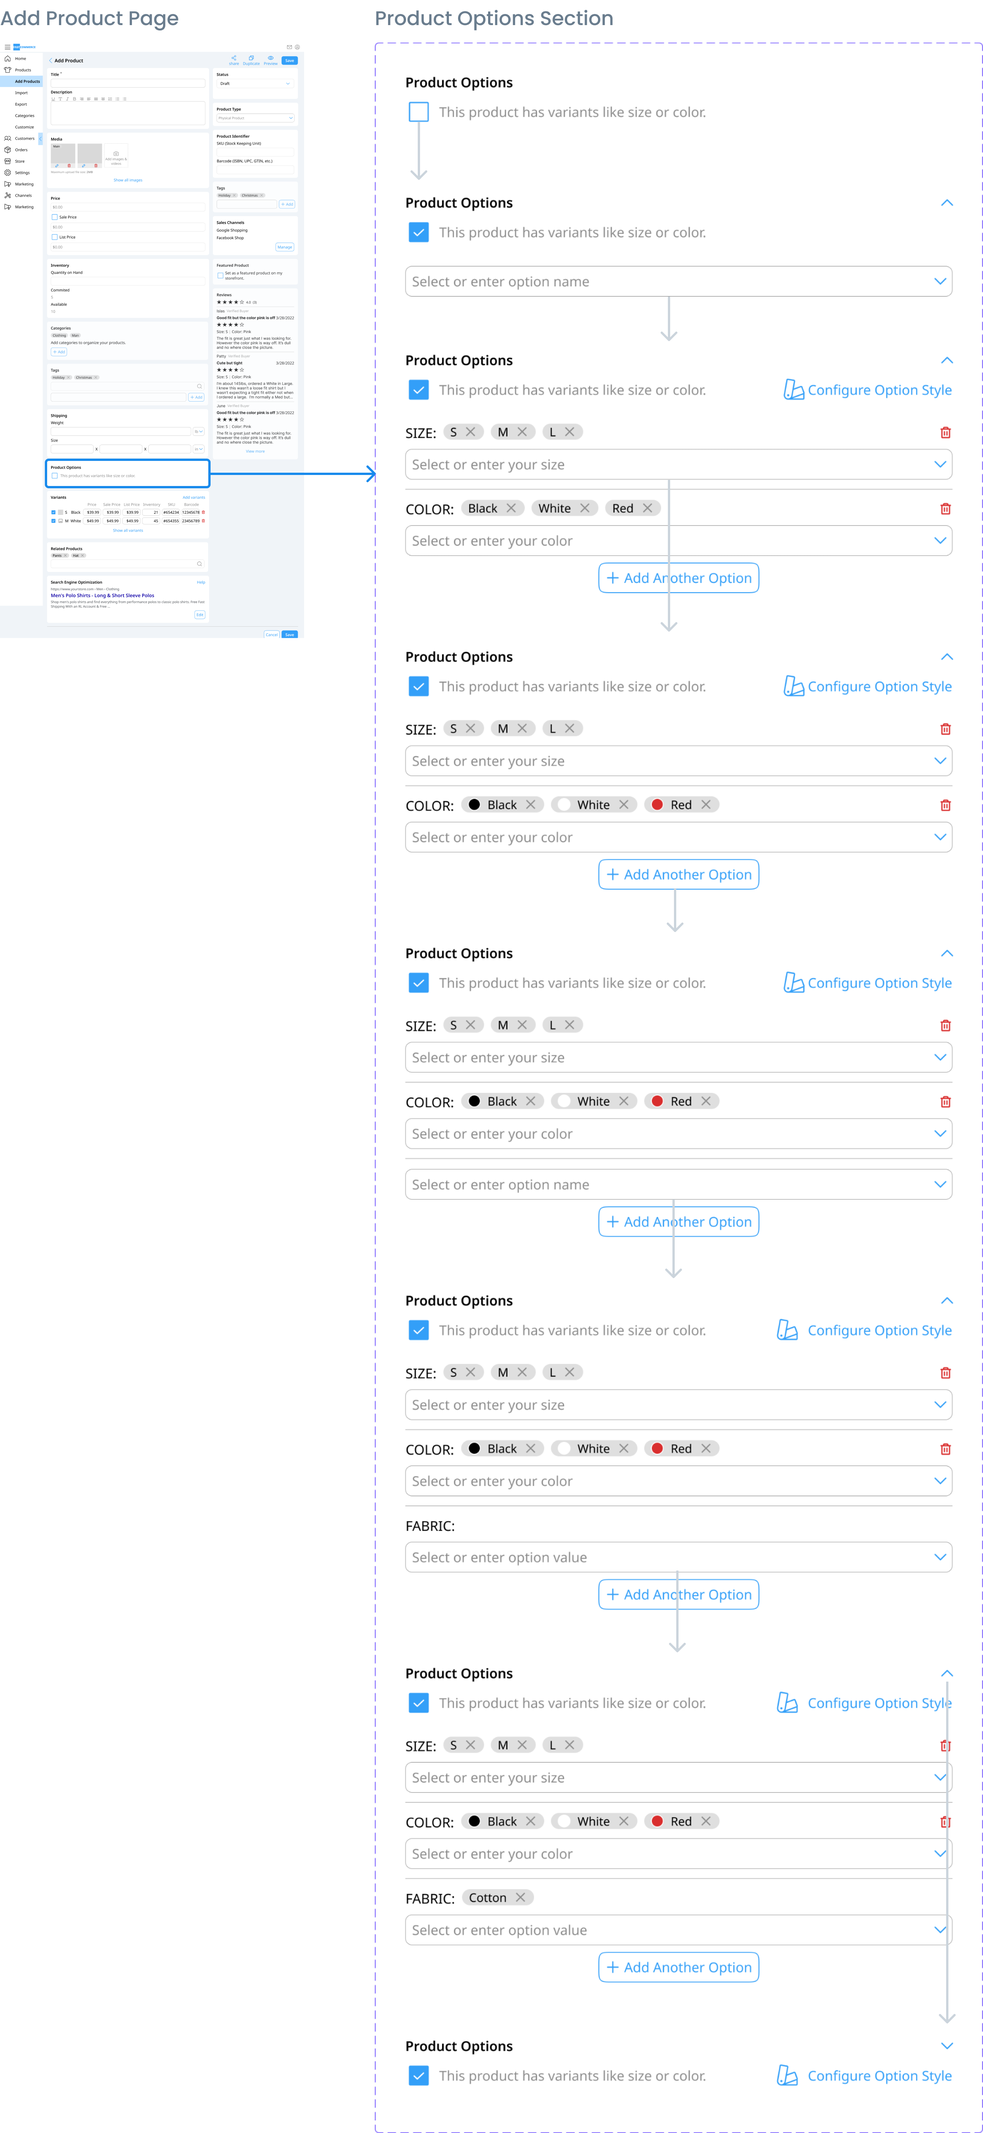
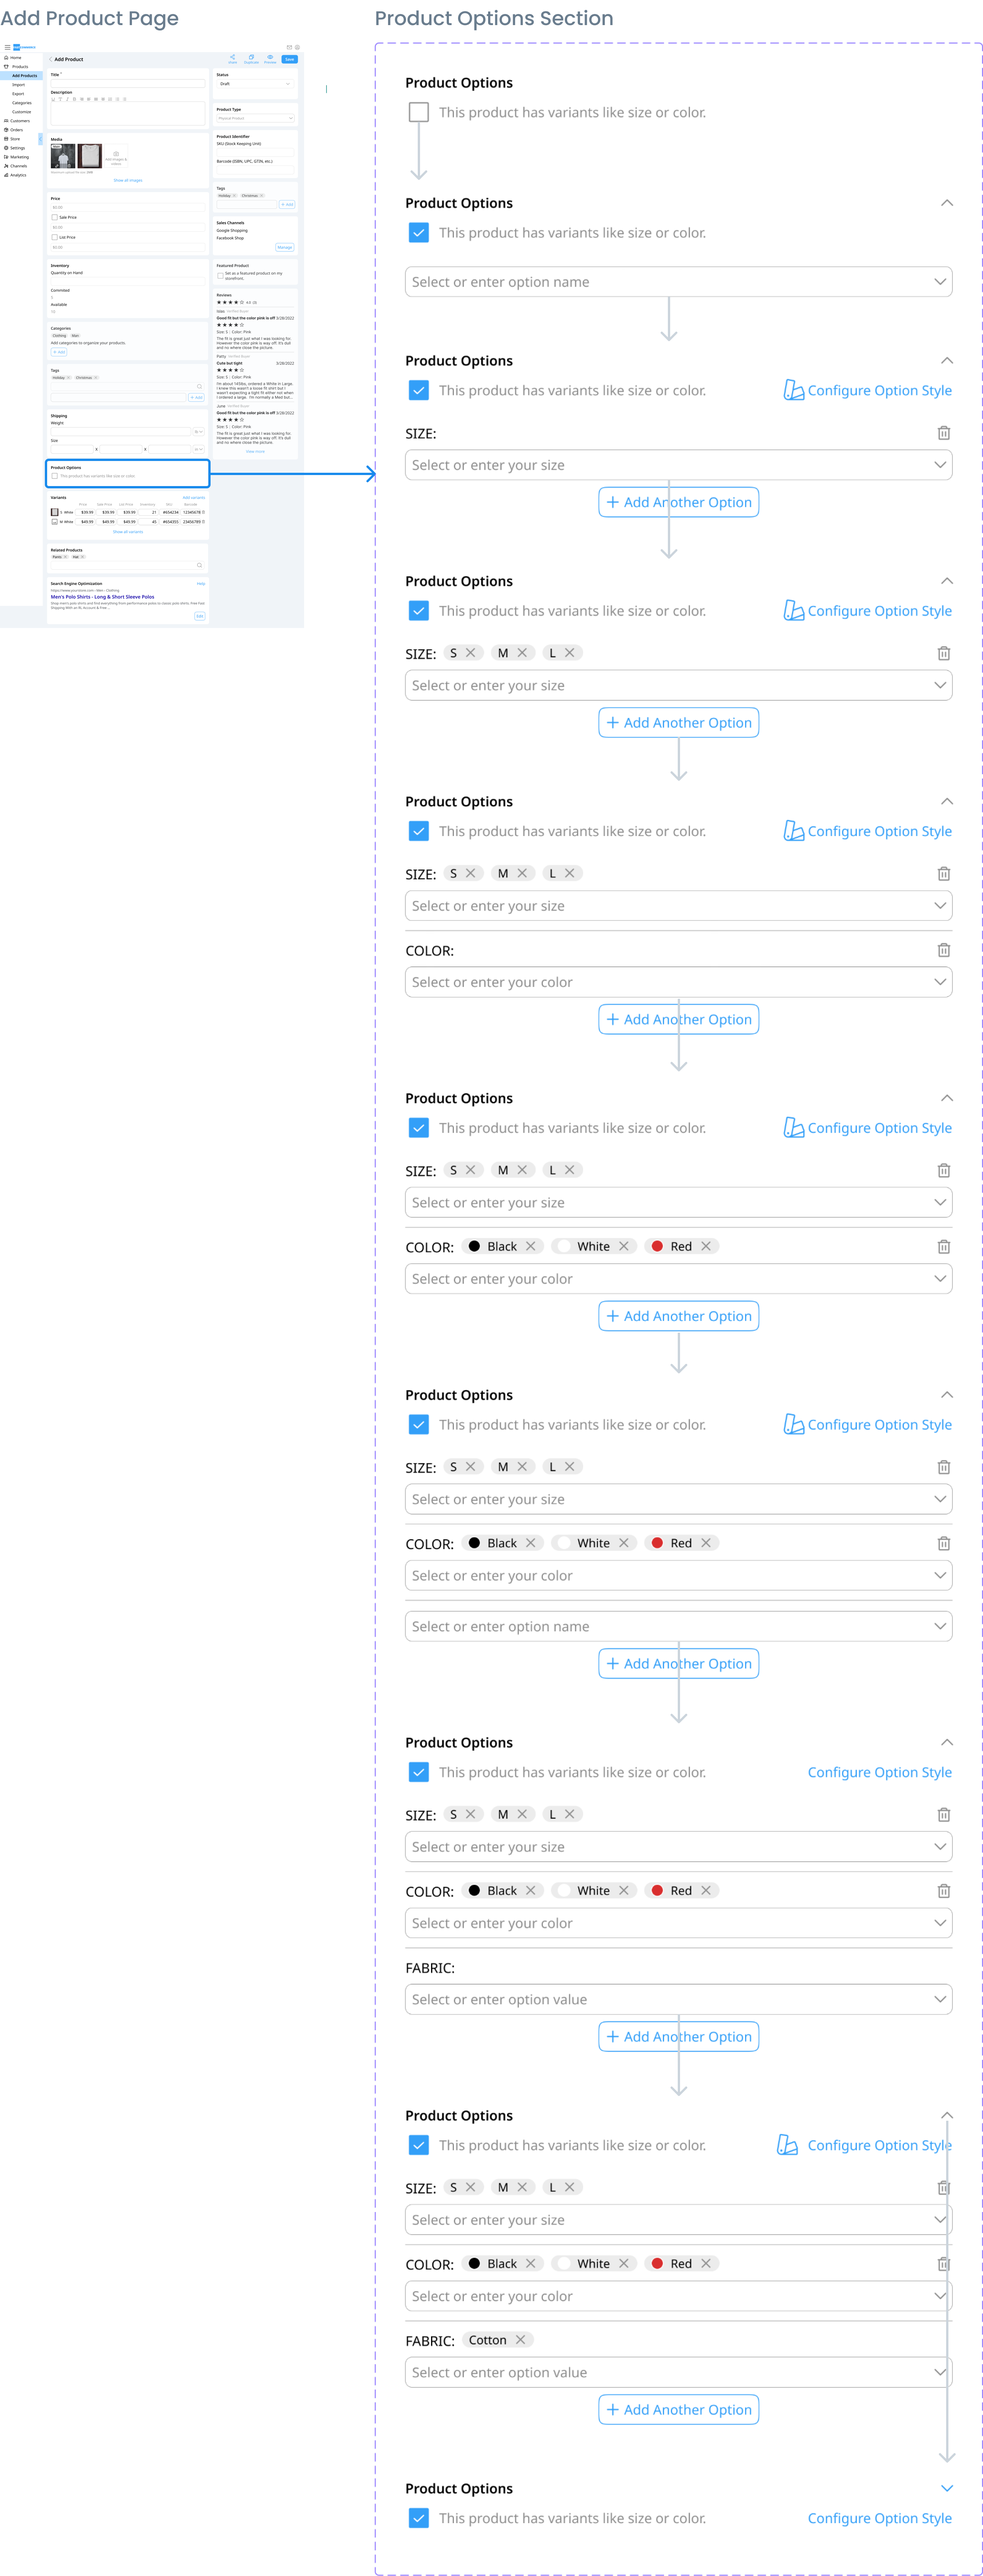
add git prototype to fastcommerce

diff --git a/fastcommerce.html b/fastcommerce.html
@@ -216,12 +216,22 @@
     </div>
 
     <!--Prototype-->
-    <div class="container-fluid center">
+    <div class="container-fluid ">
       <h3>Prototype</h3>
-      <a class="btn btn-outline-primary top-buffer"
-        href="https://www.figma.com/proto/YL4WUgylDiKdfprkjQ2Z7x/FastCommerce?page-id=403%3A4987&type=design&node-id=403-4989&viewport=479%2C149%2C0.26&t=0Pzx8jw62eIImfPG-1&scaling=scale-down&starting-point-node-id=403%3A4989&mode=design"
-        target="_blank" role="button">View
-        Prototype</a>
+      <h4>Scenario 1:</h4>
+      <p>Add variant options to product.</p>
+      <div class="row">
+        <div class="col-md-8 mx-auto">
+          <img class="img-fluid" src="img/fastcommerce/prototype_add_variants.gif" alt="prototype_add_variants">
+        </div>
+      </div>
+      <h4>Scenario 2:</h4>
+      <p>Add color swatches.</p>
+      <div class="row">
+        <div class="col-md-8 mx-auto">
+          <img class="img-fluid" src="img/fastcommerce/prototype_add_swatches.gif" alt="prototype_add_swatches">
+        </div>
+      </div>
     </div>
 
     <!--Next Project-->
